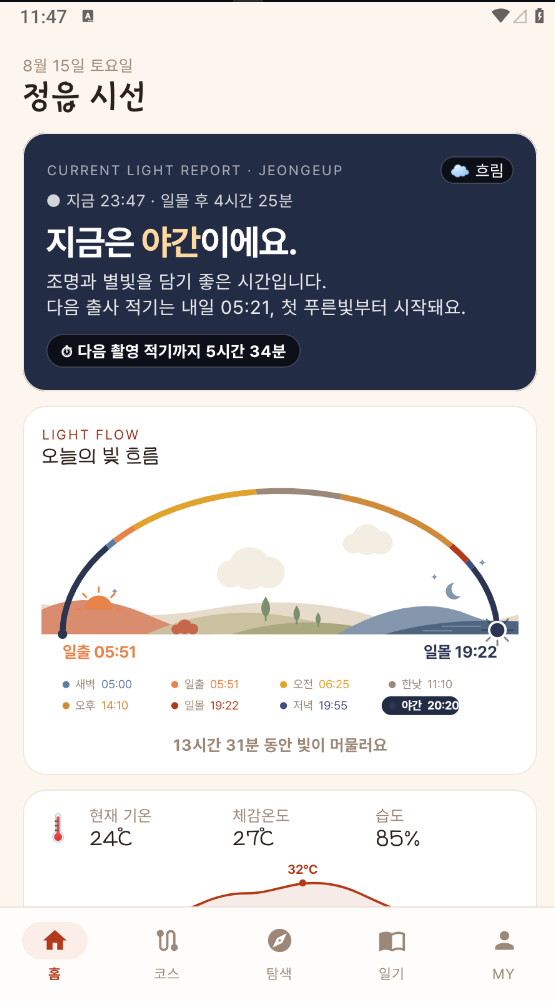
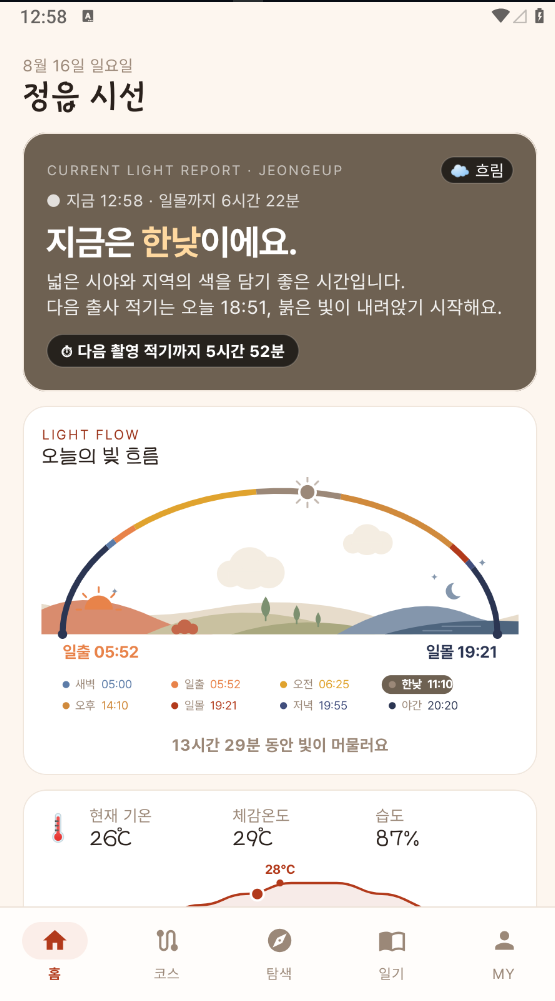
docs: 홈 개편과 설계 근거를 README 에 정리
홈 절이 옛 화면(빛 흐름 막대·현황 3칸)을 설명하고 있었습니다. 빛 보고서
히어로·지형 그림·기온 곡선으로 다시 썼고, 캡처도 새로 찍었습니다.
기온 곡선 캡처(14-home-weather.png)를 더했습니다.

"설계 기록 — 갈아엎은 것들" 절을 새로 뒀습니다. 만든 것보다 버린 것이
더 많은 것을 설명하는데, 그 이유가 코드에만 남아 있으면 다음 사람이
같은 길을 다시 갑니다. 하루의 빛을 그리는 방법을 세 번 바꾼 과정, 시각
표기에서 일출·일몰과 야간만 규칙을 달리한 이유, 색을 고정값에서
데이터로 바꾼 세 군데, 참고 시안을 이미지로 깔지 않은 이유를 적었습니다.

데이터 출처에 단기예보(getVilageFcst)를 더하고, 초단기실황이 실제로
쓰는 항목을 기온·강수에서 기온·강수·습도·풍속으로 고쳤습니다.

diff --git a/README.md b/README.md
@@ -40,9 +40,10 @@
 이 앱의 모든 기능은 **하나의 계산**에서 나옵니다.
 
 ```
-한국천문연구원 일출·일몰  ─┐
-기상청 초단기실황 (기온·강수) ─┼─→  지금의 빛 구간(LightPhase)  ─→  모든 화면
-촬영지의 방위·최적 시간대  ─┘         (새벽·일출·오전·한낮·오후·일몰·저녁·야간)
+한국천문연구원 일출·일몰       ─┐
+기상청 초단기실황 (기온·습도·풍속) ─┼─→  지금의 빛 구간(LightPhase)  ─→  모든 화면
+기상청 단기예보 (시간대별 기온·하늘) ─┤      (새벽·일출·오전·한낮·오후·일몰·저녁·야간)
+촬영지의 방위·최적 시간대        ─┘
 ```
 
 이 값 하나가 홈의 인사말, 촬영지 점수, 코스 배치, 포즈 추천을 전부 바꿉니다.
@@ -63,13 +64,72 @@
 앱을 여는 이유는 하나입니다. **지금 나가야 하는지 아닌지.**
 그래서 첫 화면이 그 답부터 합니다.
 
-- **지금의 빛** — 현재 구간과 한 줄 조언(`야간 · 삼각대가 필요해요`)
-- **다음 골든아워까지** 남은 시간 카운트다운
-- **하루의 빛 흐름 막대** — 일출부터 일몰까지를 색으로 깔고 현재 위치를 표시.
-  "언제가 좋은 시간인지"가 글이 아니라 그림으로 보입니다
-- **현재 촬영 조건 3칸** — 기온 / 빛 상태 / 촬영지 수
+**① 빛 보고서 (히어로)**
+
+인사말이 아니라 관측 보고서입니다.
+
+- `● 지금 12:58 · 일몰까지 6시간 22분` — 구간 이름만으로는 그 구간이 막
+  시작됐는지 끝나가는지 알 수 없습니다. 가장 가까운 태양 사건까지의
+  거리가 그 자리를 메웁니다
+- **지금은 한낮이에요.** — 구간 이름만 색을 올립니다. 문장 전체가 한 색이면
+  눈이 왼쪽부터 읽어 내려가야 답을 만나는데, 궁금한 낱말은 하나뿐입니다
+- **다음 출사 적기** — `오늘 18:51, 붉은 빛이 내려앉기 시작해요` +
+  `⏱ 다음 촬영 적기까지 5시간 52분`. 해가 진 뒤에는 **내일 새벽**으로
+  넘어갑니다. 밤에 앱을 여는 사람이 알고 싶은 건 오늘이 끝났다는 사실이
+  아니라 내일 몇 시에 나가야 하는가 입니다
+- 오른쪽 위에 **하늘 상태**(`☁ 흐림`). 맑음·흐림은 취향이 아니라 조건입니다.
+  맑으면 한낮 하늘이 하얗게 날아가고, 흐리면 온 하늘이 소프트박스가 됩니다
+
+> **카드 바탕색이 지금의 빛을 따라갑니다.** 한낮은 회갈, 오후는 황토,
+> 일몰은 붉은색, 야간은 남색. 붉은 카드가 "야간"이라고 말하고 있으면
+> 글자와 색이 서로 다른 말을 합니다. 빛을 다루는 앱이라 색 자체가 정보입니다.
+
+**② 오늘의 빛 흐름**
+
+하루 24시간을 호로 눕히고 그 아래에 정읍의 지형을 깔았습니다.
+왼쪽은 해가 뜨는 붉은 흙과 떠오르는 해, 가운데는 들과 나무, 오른쪽은
+해가 지는 쪽의 푸른 산·물·달·별입니다.
+
+땅은 장식이 아니라 방향입니다. 호의 색이 주황에서 남색으로 넘어가는 것과
+땅이 같은 방향을 가리켜서, 그림 어느 쪽을 봐도 하루가 어디로 흐르는지
+읽힙니다.
+
+- 여덟 구간이 각자의 색으로 호에 들어갑니다. 골든아워·블루아워는 20~30분
+  짜리라 아주 얇은 띠로 나오는데, **그 얇음 자체가 "놓치면 끝"** 을
+  말해 주므로 억지로 넓히지 않았습니다
+- 아래 4열 2행 격자에 구간 이름과 시각. 지금 구간에는 알약이 깔립니다
+- `13시간 29분 동안 빛이 머물러요`
+
+**③ 현재 기온**
+
+`오늘의 기온`이 아니라 **`현재 기온`** 입니다. 초단기실황은 한 시점의
+관측값이라 하루 전체를 말하는 이름이 맞지 않습니다.
+
+- 기온 · 체감온도 · 습도를 같은 무게로. 기온만 크게 두면 "지금 나가도
+  되나"를 실제로 가르는 것이 습도·바람이라는 점이 가려집니다
+- **오늘의 기온 곡선** — 단기예보(`getVilageFcst`)의 시간대별 기온.
+  실황은 지금 한 시점만 주므로 "몇 시에 나가면 좋나"에는 답하지 못합니다
+- 한 줄 풀이 — `습도가 높아 실제보다 3℃ 더 덥게 느껴져요`.
+  1℃ 차이는 말하지 않습니다. 반올림에서 생기는 값이라 근거가 약합니다
+
+**④ 그 아래**
+
 - **빠른 이동 타일 4개** — 빛 스케줄 · 지도 · 캘린더 · 미션
 - **지금 찍기 좋은 곳** — 포토스코어 순 가로 목록
+
+<br clear="right" />
+
+<img src="docs/screenshots/14-home-weather.png" width="260" align="right" alt="기온 곡선" />
+
+**체감온도는 기상청 식을 그대로 옮겼습니다.**
+
+여름과 겨울이 서로 다른 식을 씁니다. 여름은 습도가, 겨울은 바람이
+지배하기 때문입니다. 어느 식을 쓸지는 기온이 아니라 **월**로 가릅니다 —
+24℃라도 습도 90%면 땀이 안 마르는데 "25℃ 이상"으로 자르면 그런 날
+체감이 기온과 같게 나와 정보가 사라집니다.
+
+필요한 값(기온·습도·풍속)이 모두 초단기실황 **한 번의 응답**에 함께
+들어 있어(T1H·REH·WSD) 추가 호출이 없습니다.
 
 <br clear="right" />
 
@@ -225,6 +285,10 @@
 축제가 아니라 **피사체의 절정 시기**가 기준입니다.
 
 - 계절 탭 · 월 달력 · 절정 기간에 점 표시
+- 계절을 고르면 **그 계절의 색**으로 켜집니다. 봄은 벚꽃 분홍, 여름은
+  내장산 신록의 초록, 가을은 은행잎 주황, 겨울은 얼음의 시린 파랑.
+  넷 다 대표색(단풍 빨강)이면 무엇을 골랐는지 색으로 알 수 없고,
+  겨울을 골랐는데 칩이 단풍색이 되는 어긋남도 생깁니다
 - D-day 안내 (`구절초 개화까지 D-14`)
 - 그 시기에 **어떻게 찍는지** 한 줄 팁
 
@@ -238,6 +302,71 @@
 탭 5개 → 3개, 글자·버튼 확대, TTS 0.85배속.
 출사는 은퇴 후 취미로 시작하는 사람이 많은 분야라 접근성을 곁다리로 두지
 않았습니다.
+
+---
+
+## 설계 기록 — 갈아엎은 것들
+
+만든 것보다 **버린 것**이 더 많은 것을 설명합니다. 남긴 이유를 적어 둡니다.
+
+### 하루의 빛을 그리는 방법 (세 번 바꿈)
+
+| 시도 | 문제 |
+|---|---|
+| 가로 막대 | "골든아워까지 얼마 남았나"는 읽히지만 **해가 어디쯤 떠 있나**는 안 보임 |
+| 반원 (자정~자정) | 해의 높이가 보이게 됐지만 세로로 높아 **카드가 화면의 3분의 1**을 먹음 |
+| 납작한 호 (일출~일몰) | 카드는 짧아졌지만 **새벽·저녁·야간이 그림에서 사라짐** |
+| **눕힌 호 + 지형** | 24시간을 다 담되 납작하게. 아래에 땅을 깔아 그림이 되니 높이가 아깝지 않음 |
+
+구간 이름도 세 번 옮겼습니다. 호를 따라 곡선 아래 정확한 위치에 놓아 봤는데,
+골든아워·블루아워가 30분짜리라 **왼쪽 끝에 이름 넷이 몰려** 어긋난 높이로
+쌓이고 자정 쪽 "야간"은 카드 밖으로 잘렸습니다. 4열 2행 격자로 옮기니
+날짜가 바뀌어 구간 길이가 달라져도 자리가 흔들리지 않습니다. 위치로 잇던
+이름과 띠는 **색 점**으로 잇습니다.
+
+### 시각 표기에서 딱 두 곳만 다르게
+
+구간 이름 옆의 시각은 **그 구간이 시작하는 시각**입니다. 알고 싶은 것이
+"몇 시부터 이 빛인가"라서입니다. 두 곳만 예외입니다.
+
+- **일출·일몰 골든아워** — 시작 시각을 적으면 `05:21`이 되는데, "일출"이라는
+  낱말에서 기대하는 숫자는 해가 뜨는 `05:52`입니다. 두 값이 어긋나 보이면
+  그림 전체를 못 믿게 됩니다
+- **야간** — 자정에 잘려 조각이 둘입니다. 저녁 뒤에 오는 쪽(`20:20`)을 씁니다.
+  `00:00`은 "오늘 밤 몇 시부터 야간인가"에 답하지 못합니다
+
+### 색이 곧 정보다
+
+세 군데에서 색을 고정값에서 데이터로 바꿨습니다.
+
+- **히어로 카드 바탕** — 단풍 빨강 고정 → 지금의 빛 구간
+- **계절 칩** — 대표색 고정 → 봄 분홍 / 여름 초록 / 가을 주황 / 겨울 파랑
+- **새벽·저녁·야간** — `light_night` 한 색을 함께 쓰고 있어 하루의 시작과 끝과
+  한밤이 같은 파랑이었습니다. 새벽은 밝아지는 쪽이라 옅게, 저녁은 어두워지는
+  쪽이라 짙게 갈랐습니다
+
+호의 구간 색을 히어로 바탕에 그대로 쓸 수는 없었습니다. 오전·한낮의
+노랑·회색 위에 흰 글씨를 얹으면 안 읽힙니다. 같은 계열에서 **명도만 낮춘
+짝**을 따로 뒀습니다.
+
+### 서체는 자리마다 다르게, 다만 한 곳만 예외
+
+`Display`는 마포백패킹입니다. "정읍 시선" 같은 짧은 이름에는 둥근 맛이
+살지만, **한 문장을 큰 글씨로 깔면 획이 뭉쳐** 관측 결과가 아니라 인사말처럼
+읽힙니다. 빛 보고서 제목 한 자리만 Pretendard 로 바꿨습니다.
+브랜드 이름은 그대로입니다.
+
+### 그림을 이미지로 깔지 않은 이유
+
+참고 시안에는 예쁜 SVG·PNG 가 있었지만 **일출 05:51 / 일몰 19:22 가 그림에
+박혀** 있었습니다. 그대로 깔면 매일 같은 시각을 보여 주게 됩니다.
+언덕·물·나무·달·별까지 전부 `Canvas` 로 다시 그려 값을 살렸습니다.
+
+### 한국어 어미
+
+`"지금은 야간이에요"` 와 `"지금은 일출 골든아워예요"` 는 어미가 갈립니다.
+하나로 고정하면 여덟 구간 중 절반이 어색해지고 앱이 한국어를 모르는 것처럼
+보입니다. 한글 음절의 종성 인덱스로 받침을 판정합니다(`util/Korean.kt`).
 
 ---
 
@@ -353,7 +482,8 @@ docker compose -f docker/docker-compose.yml run --rm aab
 ## 데이터 출처
 
 - **한국관광공사 국문 관광정보 서비스** — 촬영지 목록·사진·개요 (실시간 호출)
-- **기상청 초단기실황** — 기온·강수
+- **기상청 초단기실황**(`getUltraSrtNcst`) — 기온·강수·습도·풍속
+- **기상청 단기예보**(`getVilageFcst`) — 시간대별 기온 곡선·하늘 상태
 - **한국천문연구원 출몰시각** — 일출·일몰
 
 > 관광 정보는 매번 API 로 받아옵니다. 로컬 DB 에 저장하는 건 사용자가 만든
